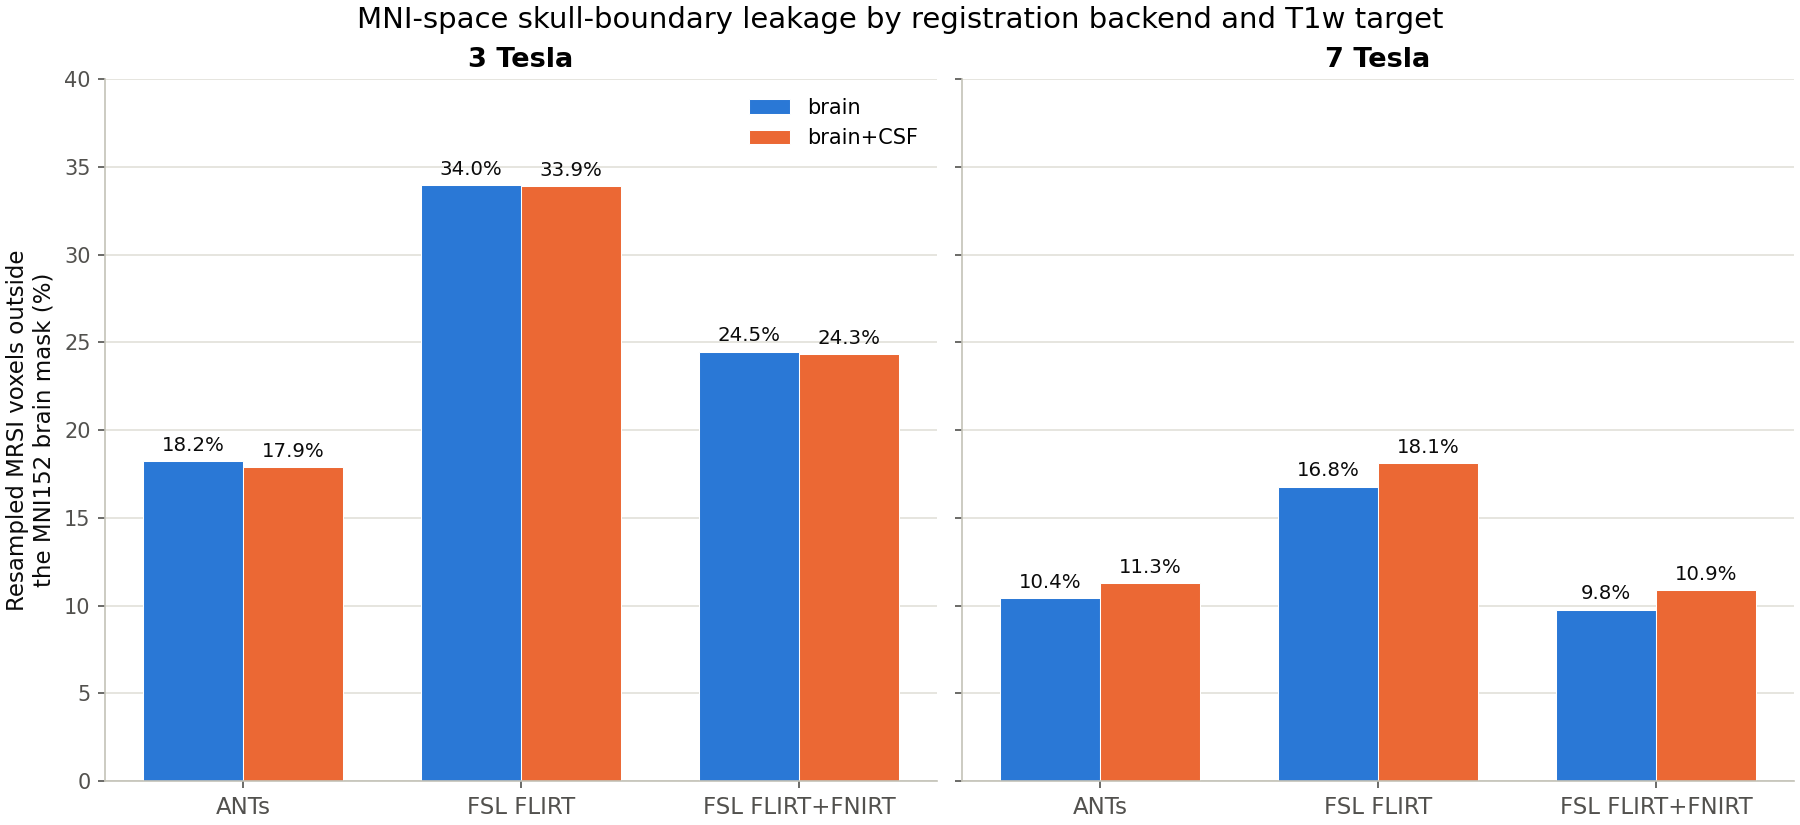
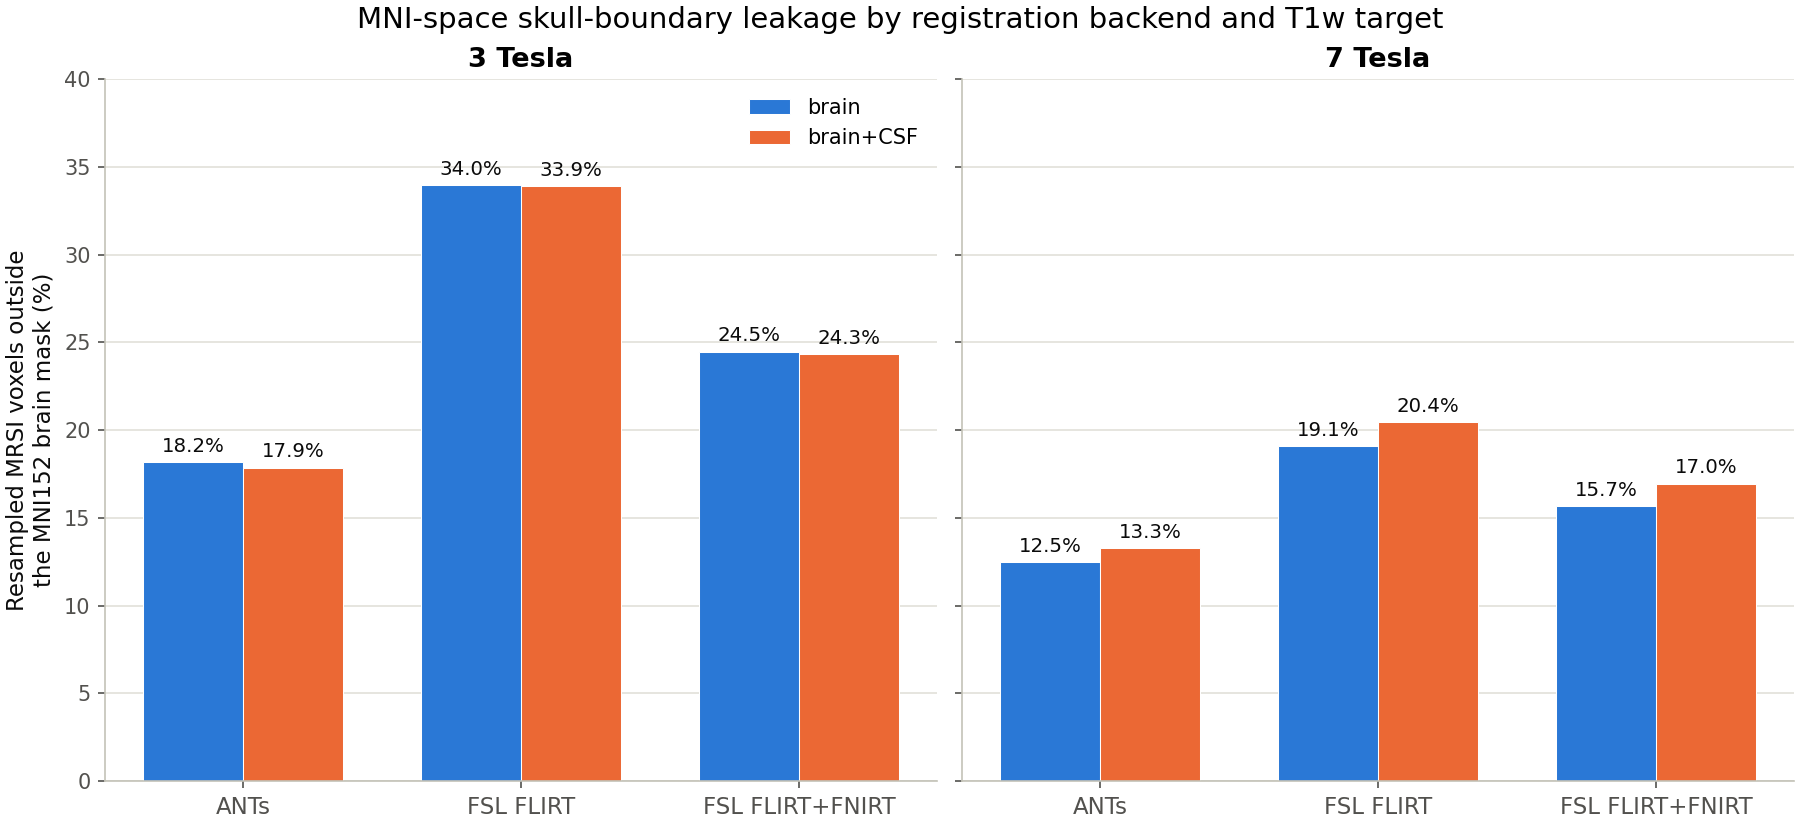
Rerun registration-backend benchmark with a better-quality 7T subject
Replace sub-8247 with sub-5740 (better data quality, full symmetric
brain coverage) for the 7T half of the ANTs-vs-FSL registration-backend
comparison. Also fixes a real bug found in the internal benchmark driver
script: --fsl-deformable now defaults to True in mrsiprep, so omitting
the flag for the "FLIRT-only" variant silently ran FLIRT+FNIRT for both
variants instead -- the driver now explicitly passes --no-fsl-deformable
for that variant. Updated figures and interpretation reflect the
corrected data; ANTs remains the clear winner at both field strengths,
and FNIRT continues to substantially reduce leakage vs. FLIRT-only.

diff --git a/docs/benchmarks.md b/docs/benchmarks.md
@@ -164,8 +164,8 @@ rendered transparent so the underlying template stays visible through
 low-signal regions. Signal extending past the skull ring, or with a
 jagged/scalloped rather than smooth outer edge, indicates voxels that have
 leaked beyond the true brain boundary during registration — visible here
-for both FSL variants at both field strengths, and especially pronounced
-(plus visibly asymmetric between hemispheres) for the FSL backend at 7T.
+for both FSL variants at both field strengths, most noticeably as a
+coarser, less anatomically detailed outer edge than ANTs produces.
 
 **Resampled MRSI voxels falling outside the MNI152 brain mask, by backend and T1w target:**
 
@@ -174,19 +174,17 @@ for both FSL variants at both field strengths, and especially pronounced
 ### Interpretation
 
 * **ANTs is the clear winner at both field strengths.** It has the lowest
-  MNI-outside-brain fraction of any backend at 3T (17.9–18.2%, vs. 24.3–
-  24.5% for FSL FLIRT+FNIRT and 33.9–34.0% for FSL FLIRT-only) and is
-  essentially tied with FSL FLIRT+FNIRT at 7T (10.4–11.3% vs. 9.8–10.9%).
-  The overlay figures confirm this visually: ANTs produces the smoothest,
-  most anatomically faithful outer boundary at both field strengths, while
-  both FSL variants show a visibly irregular, jagged edge — most obviously
-  at 7T, where the FSL backend's coverage is also noticeably asymmetric
-  between hemispheres.
+  MNI-outside-brain fraction of any backend at both 3T (17.9–18.2%, vs.
+  24.3–24.5% for FSL FLIRT+FNIRT and 33.9–34.0% for FSL FLIRT-only) and 7T
+  (12.5–13.3%, vs. 15.7–17.0% for FSL FLIRT+FNIRT and 19.1–20.4% for FSL
+  FLIRT-only). The overlay figures confirm this visually: ANTs produces
+  the sharpest, most anatomically detailed result at both field strengths,
+  while both FSL variants look visibly coarser/blurrier by comparison.
 
 * **Adding FNIRT to the FSL backend substantially reduces leakage versus
   FLIRT-only** — roughly a third fewer outside-brain voxels at 3T (24.3–
-  24.5% vs. 33.9–34.0%) and about 40% fewer at 7T (9.8–10.9% vs. 16.8–
-  18.1%). This is why FNIRT is now the default for
+  24.5% vs. 33.9–34.0%) and about 18–20% fewer at 7T (15.7–17.0% vs.
+  19.1–20.4%). This is why FNIRT is now the default for
   `--registration-backend fsl`.
 
 * **Brain vs. brain+CSF as the T1w registration target has a small effect

diff --git a/docs/index.md b/docs/index.md
@@ -3,7 +3,7 @@
 *MRSIPrep* is a preprocessing and derivative-generation pipeline for already
 quantified whole-brain MRSI maps, run as a BIDS App via Docker.
 
-![version](https://img.shields.io/badge/version-v1.5.2-blue)
+![version](https://img.shields.io/badge/version-v1.5.3-blue)
 [![e2e mni-norm](https://img.shields.io/github/actions/workflow/status/MRSI-Psychosis-UP/MRSIPrep/e2e-mni-norm.yml?label=e2e%20mni-norm&color=success)](https://github.com/MRSI-Psychosis-UP/MRSIPrep/actions/workflows/e2e-mni-norm.yml)
 [![e2e parc-con](https://img.shields.io/github/actions/workflow/status/MRSI-Psychosis-UP/MRSIPrep/e2e-parc-con.yml?label=e2e%20parc-con&color=success)](https://github.com/MRSI-Psychosis-UP/MRSIPrep/actions/workflows/e2e-parc-con.yml)
 [![docs](https://app.readthedocs.org/projects/mrsiprep/badge/?version=stable)](https://mrsiprep.readthedocs.io/en/stable/)

diff --git a/README.md b/README.md
@@ -2,7 +2,7 @@
 
 
 
-![version](https://img.shields.io/badge/version-v1.5.2-blue)
+![version](https://img.shields.io/badge/version-v1.5.3-blue)
 [![e2e mni-norm](https://img.shields.io/github/actions/workflow/status/MRSI-Psychosis-UP/MRSIPrep/e2e-mni-norm.yml?label=e2e%20mni-norm&color=success)](https://github.com/MRSI-Psychosis-UP/MRSIPrep/actions/workflows/e2e-mni-norm.yml)
 [![e2e parc-con](https://img.shields.io/github/actions/workflow/status/MRSI-Psychosis-UP/MRSIPrep/e2e-parc-con.yml?label=e2e%20parc-con&color=success)](https://github.com/MRSI-Psychosis-UP/MRSIPrep/actions/workflows/e2e-parc-con.yml)
 [![docs](https://app.readthedocs.org/projects/mrsiprep/badge/?version=stable)](https://mrsiprep.readthedocs.io/en/stable/)
